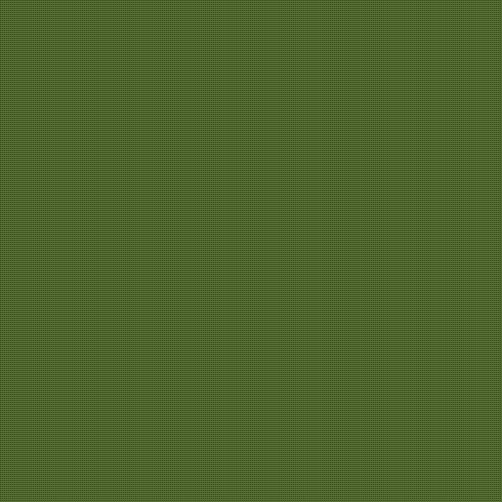
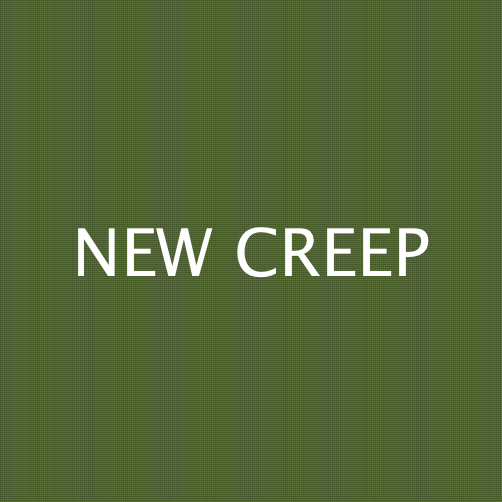
message on green squere and no padding on pictures

Changed region(s): [[0.4482, 0.4482, 0.8665, 0.5677], [0.1494, 0.4482, 0.4183, 0.5677]]

diff --git a/app/assets/stylesheets/application.css b/app/assets/stylesheets/application.css
@@ -23,3 +23,9 @@
  *= require_tree .
  *= require_self
  */
+
+
+.nopadding {
+  padding-left: 0;
+  padding-right: 0;
+}
